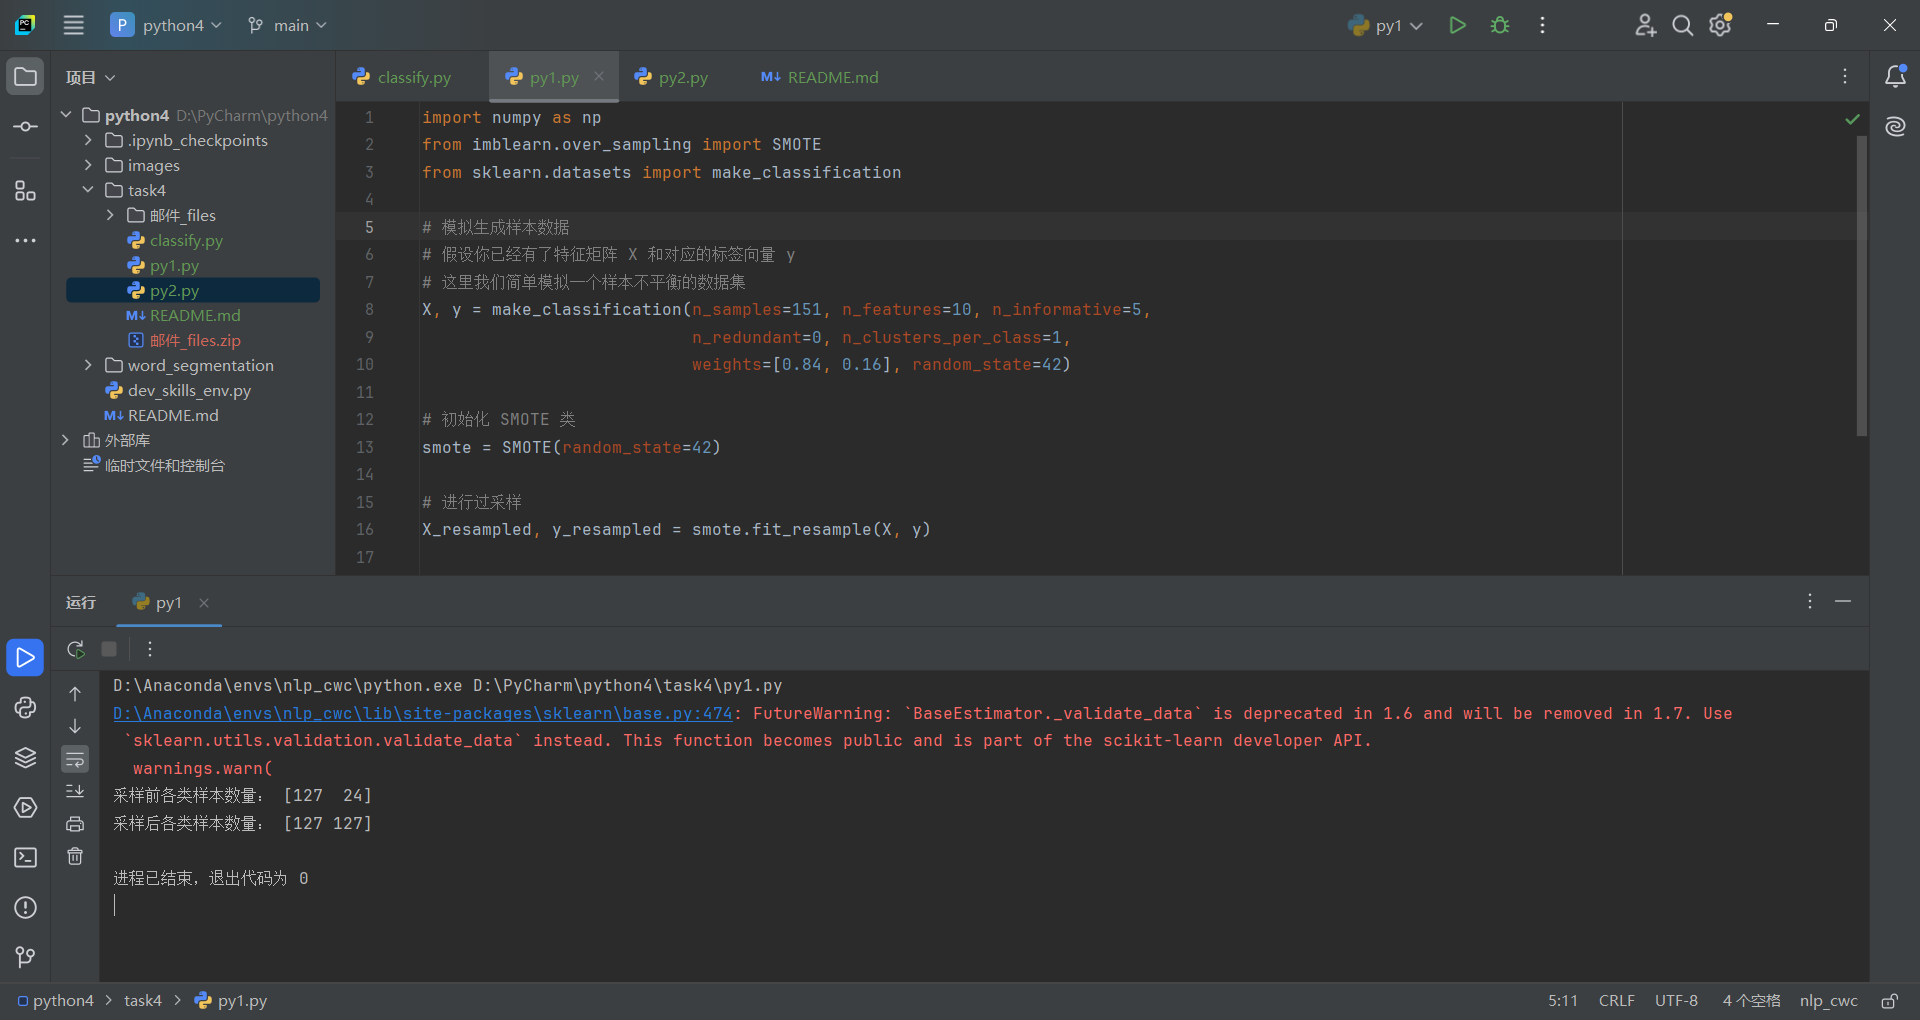
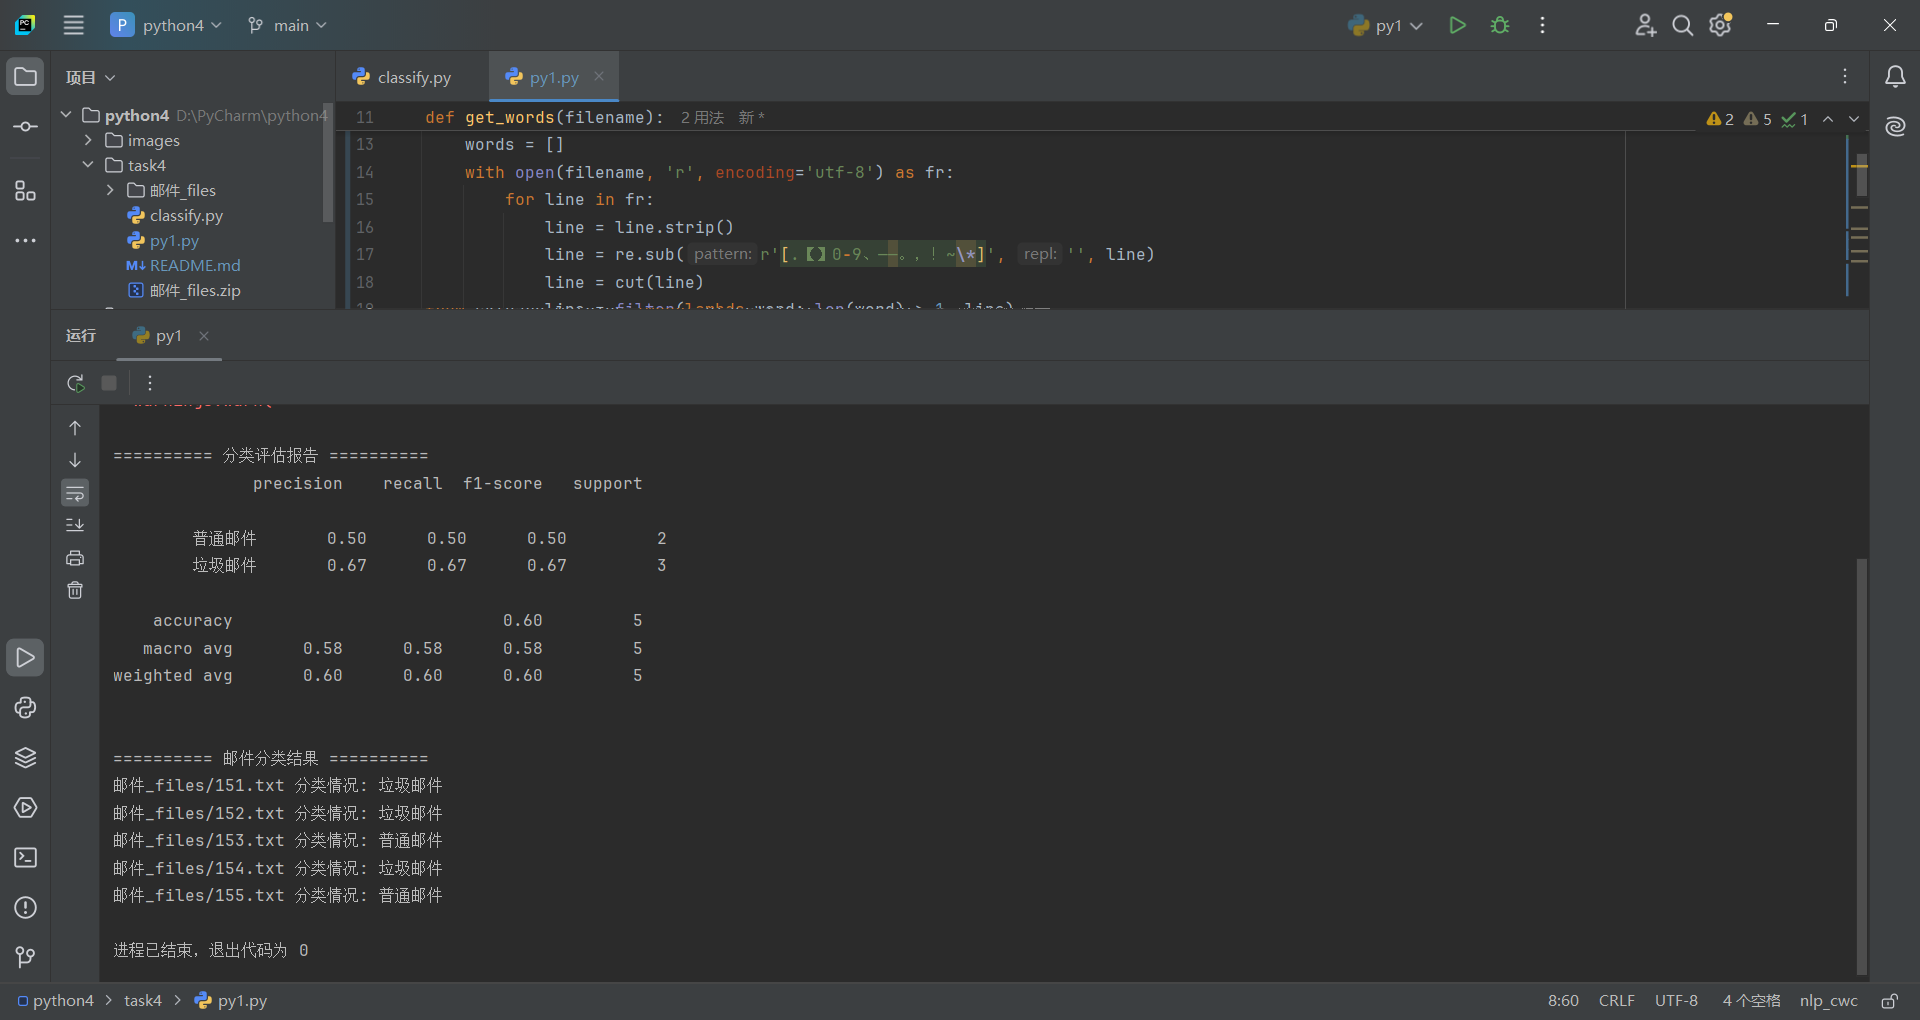
注释

diff --git a/task4/py1.py b/task4/py1.py
@@ -1,20 +1,85 @@
+import re
 import numpy as np
-from imblearn.over_sampling import SMOTE
-from sklearn.datasets import make_classification
+from jieba import cut
+from itertools import chain
+from collections import Counter
+from sklearn.naive_bayes import MultinomialNB
+from imblearn.over_sampling import SMOTE  # 新增SMOTE
+from sklearn.metrics import classification_report  # 新增评估报告
 
-# 模拟生成样本数据
-# 假设你已经有了特征矩阵 X 和对应的标签向量 y
-# 这里我们简单模拟一个样本不平衡的数据集
-X, y = make_classification(n_samples=151, n_features=10, n_informative=5,
-                           n_redundant=0, n_clusters_per_class=1,
-                           weights=[0.84, 0.16], random_state=42)
 
-# 初始化 SMOTE 类
-smote = SMOTE(random_state=42)
+def get_words(filename):
+    """读取文本并过滤无效字符和长度为1的词"""
+    words = []
+    with open(filename, 'r', encoding='utf-8') as fr:
+        for line in fr:
+            line = line.strip()
+            line = re.sub(r'[.【】0-9、——。，！~\*]', '', line)
+            line = cut(line)
+            line = filter(lambda word: len(word) > 1, line)
+            words.extend(line)
+    return words
 
-# 进行过采样
-X_resampled, y_resampled = smote.fit_resample(X, y)
 
-# 打印采样前后的样本数量
-print("采样前各类样本数量：", np.bincount(y))
-print("采样后各类样本数量：", np.bincount(y_resampled))
+all_words = []
+
+
+def get_top_words(top_num):
+    """获取高频词"""
+    filename_list = [f'邮件_files/{i}.txt' for i in range(151)]
+    for filename in filename_list:
+        all_words.append(get_words(filename))
+    freq = Counter(chain(*all_words))
+    return [i[0] for i in freq.most_common(top_num)]
+
+
+def main():
+    # 1. 数据准备
+    train_files = [f'邮件_files/{i}.txt' for i in range(151)]
+    test_files = [f'邮件_files/{i}.txt' for i in range(151, 156)]
+
+    # 2. 特征工程
+    top_words = get_top_words(100)
+
+    # 构建训练特征
+    vector = []
+    for words in all_words:
+        word_map = list(map(lambda word: words.count(word), top_words))
+        vector.append(word_map)
+    X_train = np.array(vector)
+    y_train = np.array([1] * 127 + [0] * 24)  # 原始标签
+
+    # 3. 样本平衡处理（新增核心代码）
+    sm = SMOTE(random_state=42)
+    X_res, y_res = sm.fit_resample(X_train, y_train)
+
+    # 4. 模型训练
+    model = MultinomialNB()
+    model.fit(X_res, y_res)
+
+    # 5. 构建测试特征
+    X_test = []
+    for file in test_files:
+        words = get_words(file)
+        word_map = list(map(lambda word: words.count(word), top_words))
+        X_test.append(word_map)
+    X_test = np.array(X_test)
+
+    # 假设测试集的真实标签（需要根据实际情况修改）
+    y_test = np.array([1, 1, 0, 0, 1])  # 示例标签
+
+    # 6. 预测与评估（新增核心代码）
+    y_pred = model.predict(X_test)
+    print("\n========== 分类评估报告 ==========")
+    print(classification_report(y_test, y_pred,
+                                target_names=["普通邮件", "垃圾邮件"]))
+
+    # 7. 输出预测结果
+    print("\n========== 邮件分类结果 ==========")
+    for i, file in enumerate(test_files):
+        result = "垃圾邮件" if y_pred[i] == 1 else "普通邮件"
+        print(f"{file} 分类情况: {result}")
+
+
+if __name__ == "__main__":
+    main()

diff --git a/task4/README.md b/task4/README.md
@@ -1,6 +1,113 @@
-# bayes-mails-classify-master
-This is a demo of naive Bayesian text classification.
-classify.py py1.py py2.py运行结果如下：
+# 代码核心功能说明
+## 1. 数据预处理
+### 1.1 提取单词并过滤无效字符
+函数 `get_words` 用于读取邮件文本文件，提取单词并过滤无效字符和长度为1的词。
+
+```python
+def get_words(filename):
+    """读取文本并过滤无效字符和长度为1的词"""
+    words = []
+    with open(filename, 'r', encoding='utf-8') as fr:
+        for line in fr:
+            line = line.strip()
+            # 过滤无效字符
+            line = re.sub(r'[.【】0-9、——。，！~\*]', '', line)
+            # 使用 jieba.cut() 方法对文本切词处理
+            line = cut(line)
+            # 过滤长度为1的词
+            line = filter(lambda word: len(word) > 1, line)
+            words.extend(line)
+    return words
+```
+
+- **功能**：
+  - 使用正则表达式过滤无效字符（如标点符号、数字等）。
+  - 使用 `jieba.cut` 对文本进行分词。
+  - 过滤掉长度为1的词（如“的”、“了”等无意义的词）。
+
+### 1.2 提取高频词
+函数 `get_top_words` 遍历所有邮件，统计词频并返回出现次数最多的 `top_num` 个词。
+
+```python
+def get_top_words(top_num):
+    """遍历邮件建立词库后返回出现次数最多的词"""
+    filename_list = ['邮件_files/{}.txt'.format(i) for i in range(151)]
+    # 遍历邮件建立词库
+    for filename in filename_list:
+        all_words.append(get_words(filename))
+    # itertools.chain() 把 all_words 内的所有列表组合成一个列表
+    # collections.Counter() 统计词个数
+    freq = Counter(chain(*all_words))
+    return [i[0] for i in freq.most_common(top_num)]
+```
+
+- 功能：
+  - 遍历所有邮件文件，提取单词。
+  - 使用 `Counter` 统计词频，返回出现次数最多的词。
+
+## 2. 特征向量构建
+将每封邮件转换为一个特征向量，表示邮件中每个高频词的出现次数。
+
+```python
+top_words = get_top_words(100)
+vector = []
+for words in all_words:
+    word_map = list(map(lambda word: words.count(word), top_words))
+    vector.append(word_map)
+vector = np.array(vector)
+```
+
+- **功能**：
+  - 对每封邮件，统计 `top_words` 中每个词的出现次数。
+  - 将所有邮件的向量组合成一个矩阵 `vector`。
+
+## 3. 模型训练
+使用朴素贝叶斯算法训练分类器。
+
+```python
+# 标签：前127封邮件为垃圾邮件（1），后24封邮件为普通邮件（0）
+labels = np.array([1]*127 + [0]*24)
+model = MultinomialNB()
+model.fit(vector, labels)
+```
+
+- **功能**：
+  - 定义邮件的标签（垃圾邮件或普通邮件）。
+  - 使用 `MultinomialNB` 训练分类器。
+
+## 4. 预测
+对未知邮件进行分类。
+
+```python
+def predict(filename):
+    """对未知邮件分类"""
+    # 构建未知邮件的词向量
+    words = get_words(filename)
+    current_vector = np.array(
+        tuple(map(lambda word: words.count(word), top_words)))
+    # 预测结果
+    result = model.predict(current_vector.reshape(1, -1))
+    return '垃圾邮件' if result == 1 else '普通邮件'
+```
+
+- **功能**：
+  - 提取未知邮件的单词列表。
+  - 将单词列表转换为特征向量。
+  - 使用训练好的模型进行预测，返回分类结果。
+
+## 5. 代码运行
+对几封未知邮件进行分类预测。
+
+```python
+print('151.txt分类情况:{}'.format(predict('邮件_files/151.txt')))
+print('152.txt分类情况:{}'.format(predict('邮件_files/152.txt')))
+print('153.txt分类情况:{}'.format(predict('邮件_files/153.txt')))
+print('154.txt分类情况:{}'.format(predict('邮件_files/154.txt')))
+print('155.txt分类情况:{}'.format(predict('邮件_files/155.txt')))
+```
+
 <img src="https://github.com/caic6/GitDemo/blob/main/images/4.1.png" width="800" alt="截图一">
-<img src="https://github.com/caic6/GitDemo/blob/main/images/4.2.png" width="800" alt="截图二">
-<img src="https://github.com/caic6/GitDemo/blob/main/images/4.3.png" width="800" alt="截图三">
+
+# 增加模型评估指标，代码在文件py1.py
+
+<img src="https://github.com/caic6/GitDemo/blob/main/images/4.2.png" width="800" alt="截图一">
